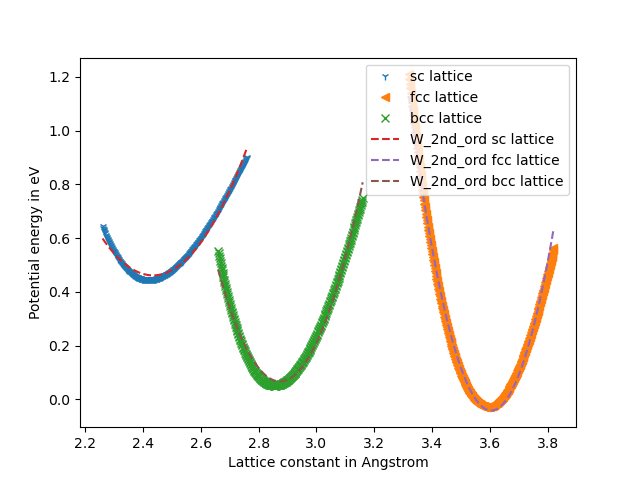
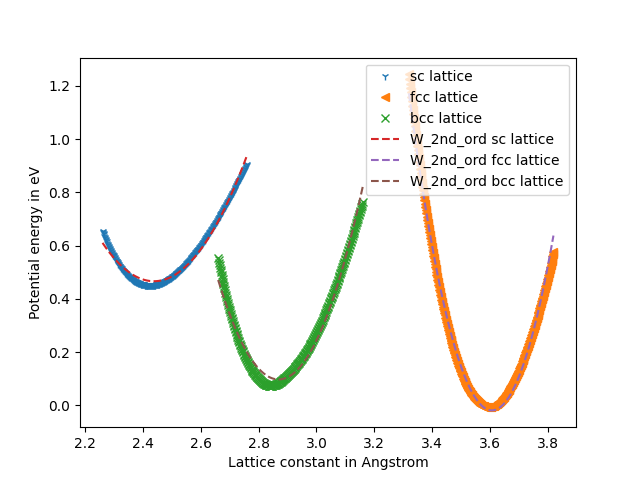
using asap3 now

diff --git a/minimize_energy.py b/minimize_energy.py
@@ -2,7 +2,8 @@ import numpy as np
 import matplotlib.pyplot as plt 
 import json
 from scipy.optimize import curve_fit, root_scalar
-from ase.calculators.emt import EMT
+#from ase.calculators.emt import EMT
+from asap3 import EMT
 from ase.lattice.cubic import FaceCenteredCubic, BodyCenteredCubic, SimpleCubic
 from ase.io import Trajectory, read
 
